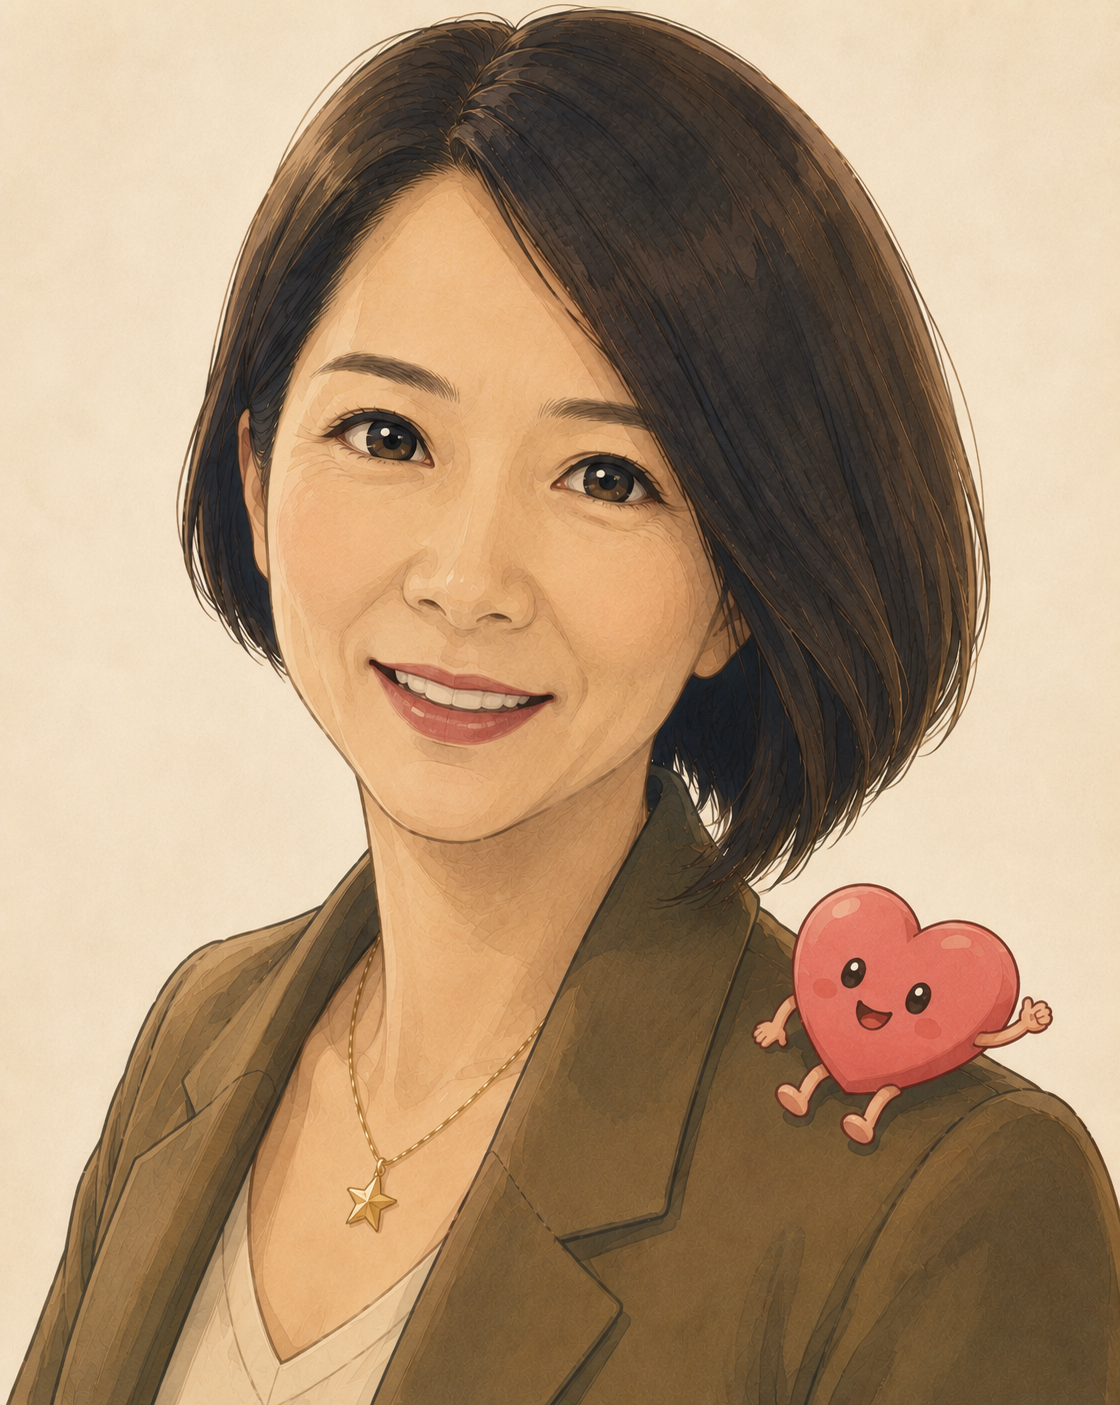
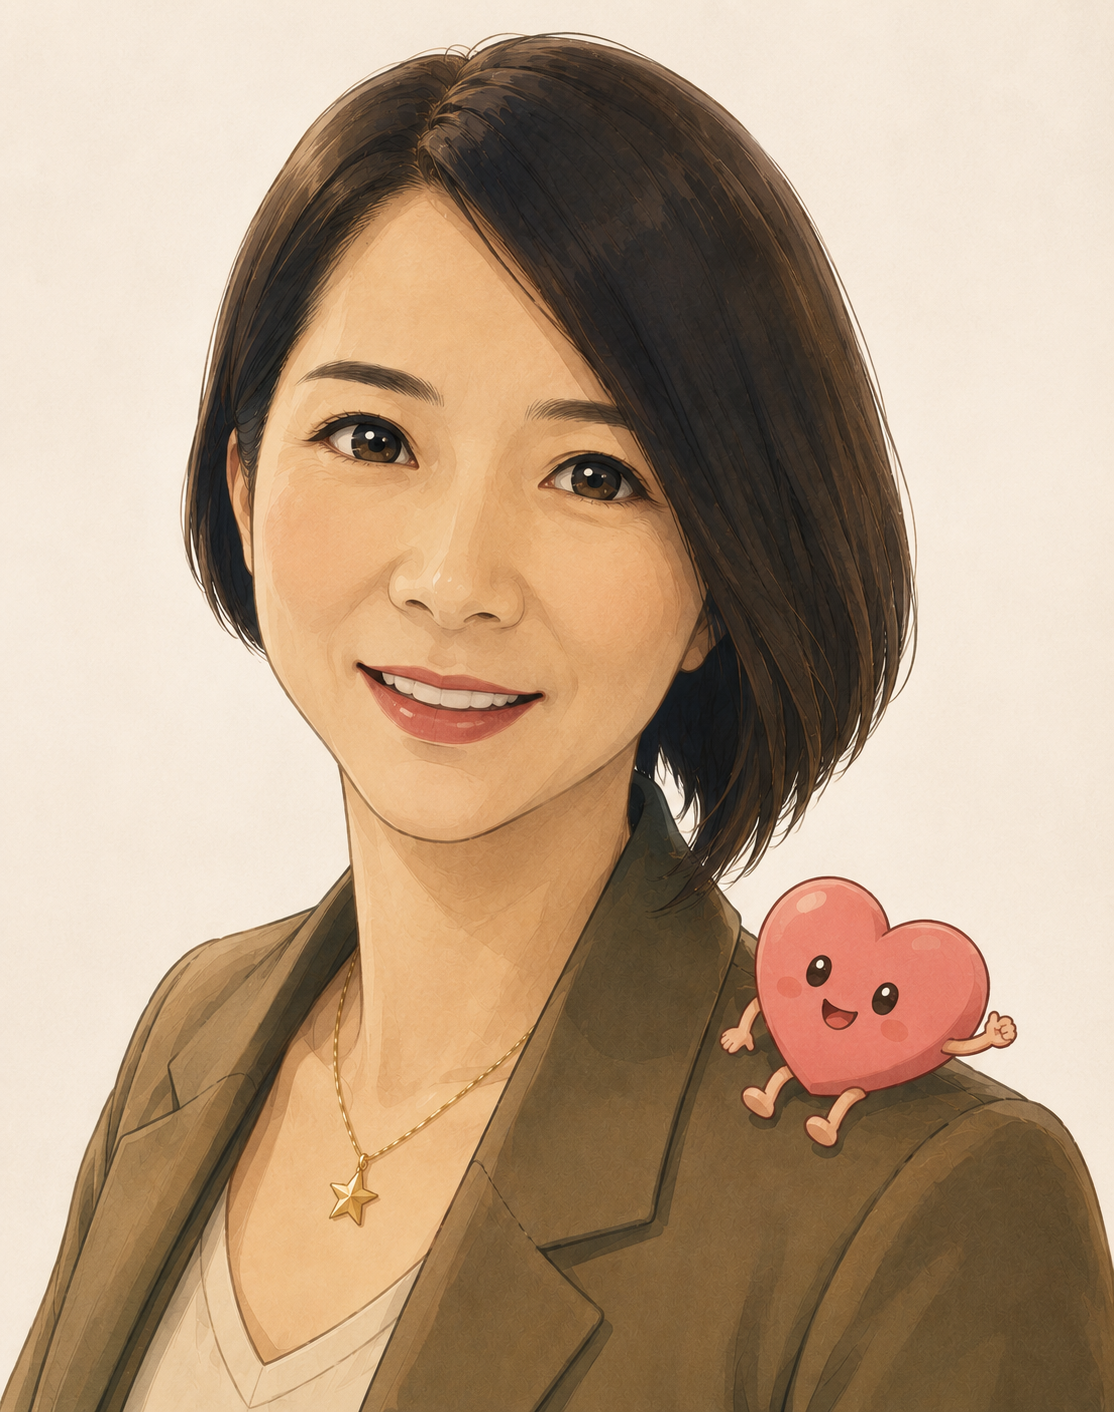
fix: 글 로딩중 버튼클릭 비활성화 수정

diff --git a/app/_data/content.ts b/app/_data/content.ts
@@ -69,20 +69,19 @@ export const timeline = [
 /* 경력 · 학력 · 자격증 */
 export const credentials = {
   career: [
-    "현) 최미선 미디어·그림책연구소 대표",
-    "전) 구립도서관 그림책 프로그램 전임 강사",
-    "전) 육아종합지원센터 부모교육 강사",
-    "전) 어린이집 교사 (영아·유아반)",
+    "현) 해달별문화예술꿈터 대표",
+    "현) 대전시효문화협회 사무국장",
+    "현) 시청자미디어재단(대전,세종,충북) 출강",
+    "현) 세종시교육청 진로교육원 출강",
+    "현) 대전학생교육문화원 출강",
+    "현) 한국어린이도서관 예술강사",
   ],
   education: [
-    "○○대학교 유아교육과 학사",
+    "공주교육대학교 교육대학원 석사",
     "○○대학원 아동학 석사 (아동심리 전공)",
   ],
   certificates: [
-    "보육교사 1급",
-    "아동심리상담사 2급",
-    "독서지도사",
-    "미디어 리터러시 교육 강사 (한국언론진흥재단)",
+
   ],
 };
 

diff --git a/app/_components/footer.tsx b/app/_components/footer.tsx
@@ -12,14 +12,6 @@ const COLS = [
     ],
   },
   {
-    head: "강의 분야",
-    links: [
-      { label: "미디어 리터러시", href: "/lectures" },
-      { label: "그림책", href: "/lectures" },
-      { label: "아동심리학", href: "/lectures" },
-    ],
-  },
-  {
     head: "함께하기",
     links: [
       { label: "강의 문의", href: "/contact" },

diff --git a/app/admin/blog/new/page.tsx b/app/admin/blog/new/page.tsx
@@ -210,6 +210,7 @@ function WriteEditor() {
                     </div>
                     <div className="flex items-center gap-2">
                         <button
+                            disabled={loadingPost}
                             onClick={() => setPreview((v) => !v)}
                             className="rounded-[20px] border-[1.5px] border-ink bg-white px-5 py-2 text-[15px] font-medium tracking-[-0.02em] transition-transform active:scale-95"
                         >
@@ -217,14 +218,14 @@ function WriteEditor() {
                         </button>
                         <button
                             onClick={() => save.mutate("DRAFT")}
-                            disabled={saving || navigating}
+                            disabled={saving || navigating || loadingPost}
                             className="inline-flex min-w-[92px] items-center justify-center rounded-[20px] border-[1.5px] border-ink bg-white px-5 py-2 text-[15px] font-medium tracking-[-0.02em] transition-transform active:scale-95 disabled:opacity-60"
                         >
                             {pendingKind === "DRAFT" ? <Spinner size={20}/> : "임시저장"}
                         </button>
                         <button
                             onClick={() => save.mutate("PUBLISHED")}
-                            disabled={saving || navigating}
+                            disabled={saving || navigating || loadingPost}
                             className="inline-flex min-w-[92px] items-center justify-center gap-2 rounded-[20px] border-[1.5px] border-ink bg-ink px-5 py-2 text-[15px] font-medium tracking-[-0.02em] text-cream transition-transform active:scale-95 disabled:opacity-60"
                         >
                             {pendingKind === "PUBLISHED" || navigating ? <Spinner size={20}/> : <>{isEdit ? "수정 발행" : "발행"} <Arrow className="h-4 w-4"/></>}

diff --git a/app/admin/lectures/new/page.tsx b/app/admin/lectures/new/page.tsx
@@ -174,6 +174,7 @@ function LectureEditor() {
           </div>
           <div className="flex items-center gap-2">
             <button
+                disabled={loadingLecture}
               onClick={() => setPreview((v) => !v)}
               className="rounded-[20px] border-[1.5px] border-ink bg-white px-5 py-2 text-[15px] font-medium tracking-[-0.02em] transition-transform active:scale-95"
             >
@@ -181,14 +182,14 @@ function LectureEditor() {
             </button>
             <button
               onClick={() => save.mutate("DRAFT")}
-              disabled={saving || analyzing || navigating}
+              disabled={saving || analyzing || navigating || loadingLecture}
               className="inline-flex min-w-[92px] items-center justify-center rounded-[20px] border-[1.5px] border-ink bg-white px-5 py-2 text-[15px] font-medium tracking-[-0.02em] transition-transform active:scale-95 disabled:opacity-60"
             >
               {pendingKind === "DRAFT" ? <Spinner size={20} /> : "임시저장"}
             </button>
             <button
               onClick={() => save.mutate("PUBLISHED")}
-              disabled={saving || analyzing || navigating}
+              disabled={saving || analyzing || navigating || loadingLecture}
               className="inline-flex min-w-[92px] items-center justify-center gap-2 rounded-[20px] border-[1.5px] border-ink bg-ink px-5 py-2 text-[15px] font-medium tracking-[-0.02em] text-cream transition-transform active:scale-95 disabled:opacity-60"
             >
               {pendingKind === "PUBLISHED" || navigating ? <Spinner size={20} /> : <>{isEdit ? "수정 발행" : "발행"} <Arrow className="h-4 w-4" /></>}